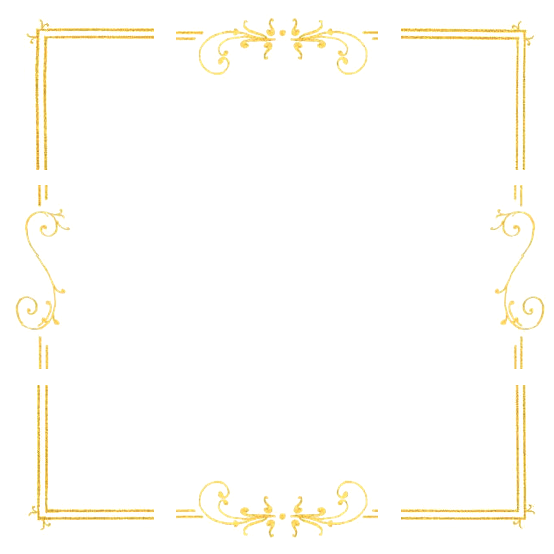
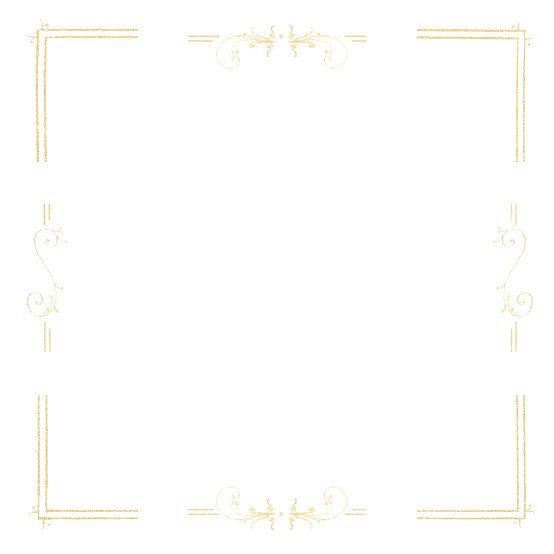
fix auth

diff --git a/generator.html b/generator.html
@@ -775,7 +775,7 @@ if (isTop100Generator) {
 const SIZE = 1080;        // canvas px
 const DEFAULT_GAP = 20;   // 20px gap = 530px cells on a 1080px canvas
 const DEFAULT_CR = 50;    // corner radius
-const TOP100_CANVAS_SIZE = 1240;
+const TOP100_CANVAS_SIZE = 1480;
 const TOP100_GRID_SIZE = SIZE;
 const TOP100_SLIDE_MARGIN = 34;
 const TOP100_SLIDE_GUTTER = 12;
@@ -4376,24 +4376,24 @@ function drawTop100AuraOverlay(ctx, x, y, w, h, rank) {
 function drawTop100SlideAuraFrame(ctx, x, y, w, h) {
   const frame = top100SlideFrameImage;
   if (frame && frame.complete && frame.naturalWidth) {
-    const frameExtra = 44;
+    const frameExtra = 28;
     const frameW = w + frameExtra;
     const frameH = h + frameExtra;
     const frameX = x + (w - frameW) / 2;
     const frameY = y + (h - frameH) / 2;
     ctx.save();
     ctx.globalCompositeOperation = 'screen';
-    ctx.shadowColor = 'rgba(246,200,75,0.34)';
-    ctx.shadowBlur = 22;
-    ctx.globalAlpha = 0.42;
-    ctx.filter = 'brightness(1.16) saturate(1.04)';
-    ctx.drawImage(frame, frameX, frameY, frameW, frameH);
-    ctx.shadowBlur = 0;
-    ctx.globalAlpha = 0.58;
+    ctx.shadowColor = 'rgba(246,200,75,0.22)';
+    ctx.shadowBlur = 18;
+    ctx.globalAlpha = 0.26;
     ctx.filter = 'brightness(1.08) saturate(1.02)';
     ctx.drawImage(frame, frameX, frameY, frameW, frameH);
-    ctx.globalAlpha = 0.16;
-    ctx.filter = 'blur(1.2px) brightness(1.25)';
+    ctx.shadowBlur = 0;
+    ctx.globalAlpha = 0.42;
+    ctx.filter = 'brightness(1.03) saturate(1)';
+    ctx.drawImage(frame, frameX, frameY, frameW, frameH);
+    ctx.globalAlpha = 0.08;
+    ctx.filter = 'blur(1.2px) brightness(1.16)';
     ctx.drawImage(frame, frameX - 3, frameY - 3, frameW + 6, frameH + 6);
     ctx.restore();
     return;
